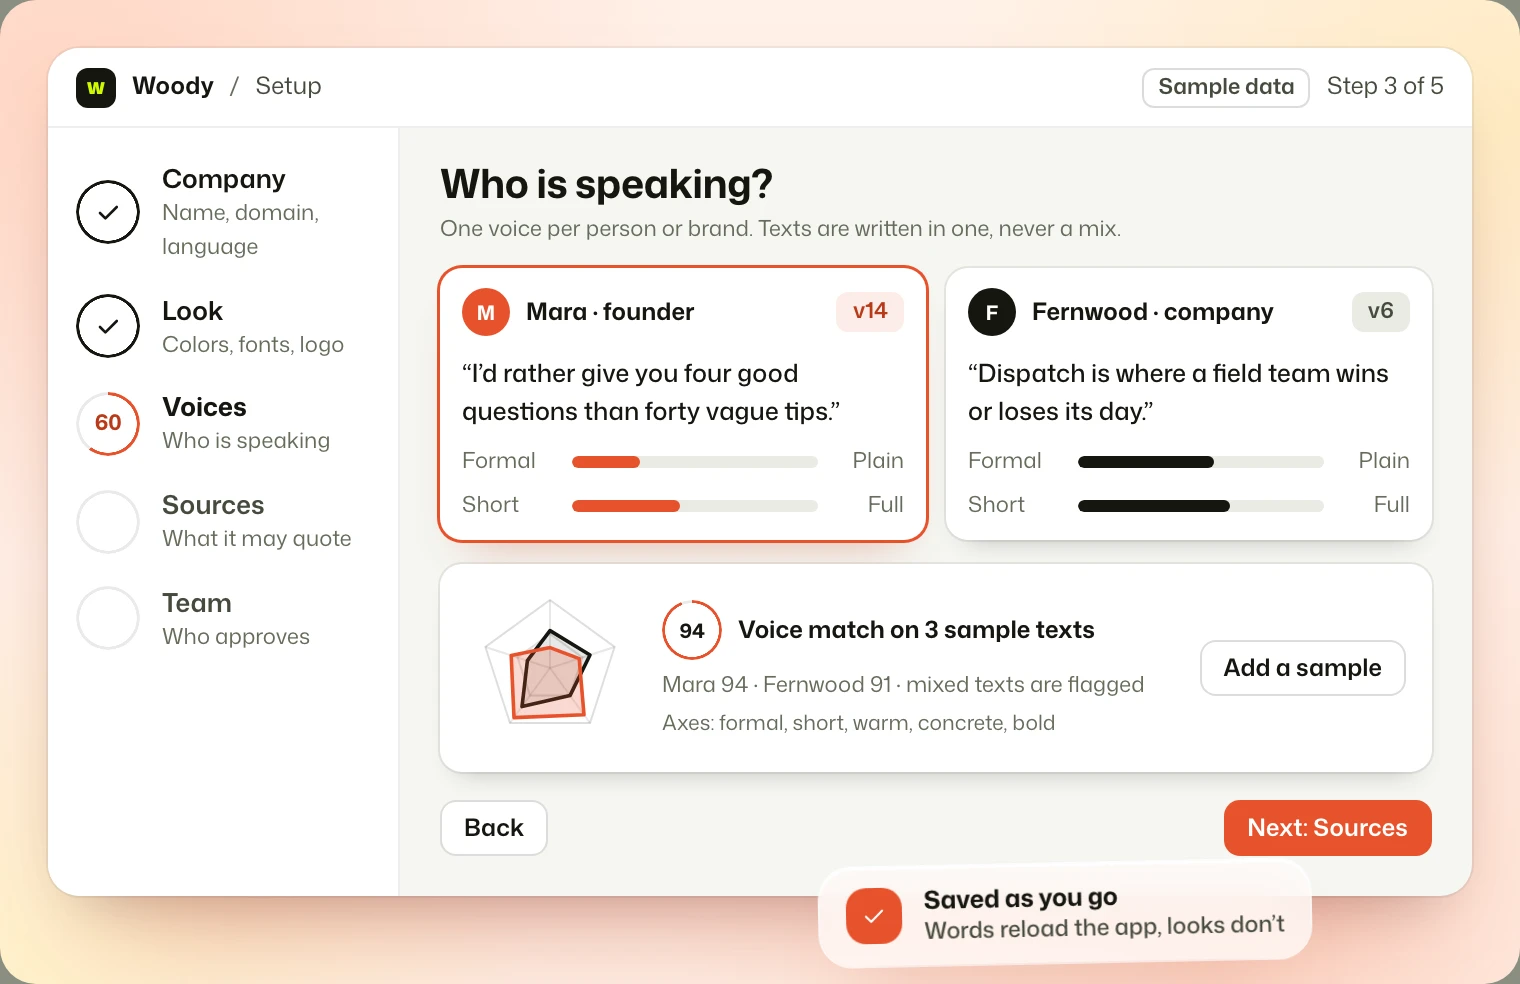
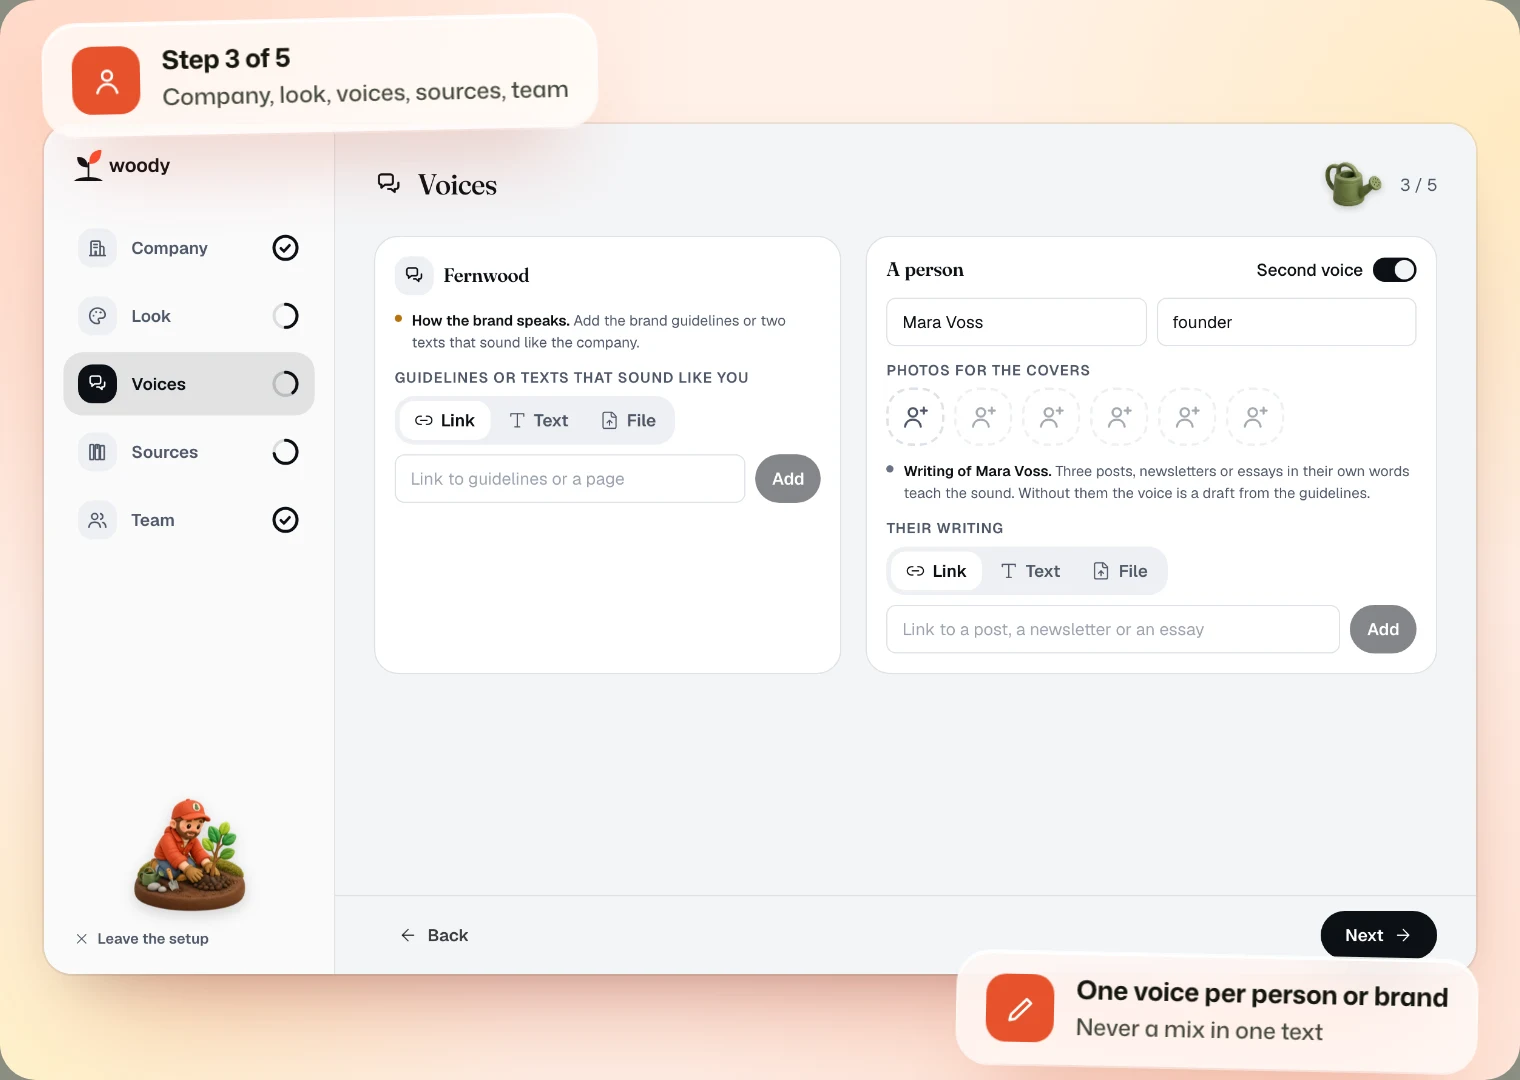
feat(revolution): Woody shown as it runs, nine real screens from the demo company
The Woody screens are now captures of the running app with its sample company
(Fernwood, made up), framed as before: Studio, Review, Texts, one text, Strategy,
Sources, Settings, Setup voices, Setup look, each with a phone crop from the real
responsive layout. The redrawn calendar and licence mockups are removed.

diff --git a/public/revolution/work.html b/public/revolution/work.html
@@ -2877,8 +2877,8 @@ html[data-mode="dark"] .pl3 img.pl3__tm[alt="Apollo"]{filter:invert(1)}
 <div class="v4s__g v4s__g--cases"><article class="v4s__c"><a class="v4s__im" href="work/multichannel-data-engine.html" tabindex="-1" aria-hidden="true"><img src="assets/real/v4-case-multichannel-data-engine.webp" alt="" width="900" height="675" loading="lazy" decoding="async"></a><div class="v4s__tx"><h3><a href="work/multichannel-data-engine.html">Multichannel data engine</a></h3><span class="v4s__st">In use</span><p>One reporting model on top of independent feeds, with dated snapshots and a run state per source.</p><div class="v4s__go"><a class="btn" href="work/multichannel-data-engine.html">Read the case <i>→</i></a></div></div></article><article class="v4s__c"><a class="v4s__im" href="work/form-to-crm-handoff.html" tabindex="-1" aria-hidden="true"><img src="assets/real/v4-case-form-to-crm-handoff.webp" alt="" width="900" height="675" loading="lazy" decoding="async"></a><div class="v4s__tx"><h3><a href="work/form-to-crm-handoff.html">Form-to-CRM handoff</a></h3><span class="v4s__st">In use</span><p>A shared pattern from form field to CRM record, owner and measurement event.</p><div class="v4s__go"><a class="btn" href="work/form-to-crm-handoff.html">Read the case <i>→</i></a></div></div></article><article class="v4s__c"><a class="v4s__im" href="work/website-migration.html" tabindex="-1" aria-hidden="true"><img src="assets/real/v4-case-website-migration.webp" alt="" width="900" height="675" loading="lazy" decoding="async"></a><div class="v4s__tx"><h3><a href="work/website-migration.html">Website migration and redirect QA</a></h3><span class="v4s__st">Documented rollout</span><p>URL inventory, redirect mapping and readiness by page group, released in batches.</p><div class="v4s__go"><a class="btn" href="work/website-migration.html">Read the case <i>→</i></a></div></div></article><article class="v4s__c"><a class="v4s__im" href="work/ecommerce-funnel-diagnosis.html" tabindex="-1" aria-hidden="true"><img src="assets/real/v4-case-ecommerce-funnel-diagnosis.webp" alt="" width="900" height="675" loading="lazy" decoding="async"></a><div class="v4s__tx"><h3><a href="work/ecommerce-funnel-diagnosis.html">Ecommerce funnel diagnosis</a></h3><span class="v4s__st">Delivered</span><p>Where shoppers stop between a product page and an order, and the one step to test first.</p><div class="v4s__go"><a class="btn" href="work/ecommerce-funnel-diagnosis.html">Read the case <i>→</i></a></div></div></article><article class="v4s__c"><a class="v4s__im" href="work/industry-landing-pages.html" tabindex="-1" aria-hidden="true"><img src="assets/real/v4-case-industry-landing-pages.webp" alt="" width="900" height="675" loading="lazy" decoding="async"></a><div class="v4s__tx"><h3><a href="work/industry-landing-pages.html">Industry landing pages and measurement</a></h3><span class="v4s__st">Documented rollout</span><p>Segment landing pages with one structure and one way to measure the next step.</p><div class="v4s__go"><a class="btn" href="work/industry-landing-pages.html">Read the case <i>→</i></a></div></div></article><article class="v4s__c"><a class="v4s__im" href="work/lifecycle-intervention-design.html" tabindex="-1" aria-hidden="true"><img src="assets/real/v4-case-lifecycle-intervention-design.webp" alt="" width="900" height="675" loading="lazy" decoding="async"></a><div class="v4s__tx"><h3><a href="work/lifecycle-intervention-design.html">Lifecycle interventions from customer signals</a></h3><span class="v4s__st">Design proposal</span><p>A design for turning customer signals into reviewed, measurable lifecycle actions.</p><div class="v4s__go"><a class="btn" href="work/lifecycle-intervention-design.html">Read the case <i>→</i></a></div></div></article></div></div></section>
 <!-- /v4-cases -->
 <!-- real-screens -->
-<section class="s hm v4s rs" id="screens" data-theme="dark"><div class="c2"><div class="tl"><div class="hd"><span class="eyebrow chp">Screens</span><h2 data-split="lime">Tools<span>in use</span></h2></div><p class="pp">Sixteen screens from tools I use and build. Every number and name is sample data. The layouts, states and labels are the real ones.</p></div>
-<div class="rs__g"><div class="rs__hd"><h3>Woody</h3><p>Content Studio. Texts in a person's own voice, every claim tied to a source, a named person approving each version.</p></div><ul class="rs__rail" role="region" aria-label="Woody screens" tabindex="0"><li><figure><picture><source media="(max-width:640px)" srcset="assets/real/ui-woody-studio-m.webp" width="716" height="1112"><img src="assets/real/ui-woody-studio.webp" alt="Woody studio: a prompt, voice and channel options, and four texts waiting for review" width="1520" height="1000" loading="lazy" decoding="async"></picture><figcaption><b>Studio</b><span>One prompt, a voice and a channel. Four texts wait for a decision.</span></figcaption></figure></li><li><figure><picture><source media="(max-width:640px)" srcset="assets/real/ui-woody-review-m.webp" width="716" height="1188"><img src="assets/real/ui-woody-review.webp" alt="Woody review: a draft with struck-out phrases, a checklist and an approve button" width="1520" height="1120" loading="lazy" decoding="async"></picture><figcaption><b>Review</b><span>A draft with the edits shown. The reviewer checks voice, sources and client names, then approves.</span></figcaption></figure></li><li><figure><picture><source media="(max-width:640px)" srcset="assets/real/ui-woody-strategy-m.webp" width="716" height="1212"><img src="assets/real/ui-woody-strategy.webp" alt="Woody strategy: a grid of 42 book pages by status and a list of chapters with progress" width="1520" height="1000" loading="lazy" decoding="async"></picture><figcaption><b>Strategy</b><span>A 42-page content book, 18 pages ready. Next up is Benchmarks, page 5.</span></figcaption></figure></li><li><figure><picture><source media="(max-width:640px)" srcset="assets/real/ui-woody-texts-m.webp" width="716" height="1220"><img src="assets/real/ui-woody-texts.webp" alt="Woody texts: a table of 38 texts with channel, voice, status and checks" width="1520" height="1120" loading="lazy" decoding="async"></picture><figcaption><b>Texts</b><span>38 texts with channel, voice, status and checks. One claim without a source is held back.</span></figcaption></figure></li><li><figure><picture><source media="(max-width:640px)" srcset="assets/real/ui-woody-calendar-m.webp" width="716" height="984"><img src="assets/real/ui-woody-calendar.webp" alt="Woody calendar: a month view with scheduled texts and a list of unscheduled ones" width="1520" height="1000" loading="lazy" decoding="async"></picture><figcaption><b>Calendar</b><span>Seven texts scheduled this month, three still unscheduled. Drag a text onto a day.</span></figcaption></figure></li><li><figure><picture><source media="(max-width:640px)" srcset="assets/real/ui-woody-sources-m.webp" width="716" height="1224"><img src="assets/real/ui-woody-sources.webp" alt="Woody sources: documents, notes and links with state, and claims taken from one source" width="1520" height="1208" loading="lazy" decoding="async"></picture><figcaption><b>Sources</b><span>96% of claims trace to a source. One source cannot be opened and holds its text back.</span></figcaption></figure></li><li><figure><picture><source media="(max-width:640px)" srcset="assets/real/ui-woody-setup-m.webp" width="716" height="1128"><img src="assets/real/ui-woody-setup.webp" alt="Woody setup: a voice with formal and short sliders and a voice match score" width="1520" height="984" loading="lazy" decoding="async"></picture><figcaption><b>Setup</b><span>One voice per person or brand, scored by how well it matches three sample texts.</span></figcaption></figure></li><li><figure><picture><source media="(max-width:640px)" srcset="assets/real/ui-woody-licenses-m.webp" width="716" height="1220"><img src="assets/real/ui-woody-licenses.webp" alt="Woody control: a list of licenses with seats, state and last heartbeat" width="1520" height="1120" loading="lazy" decoding="async"></picture><figcaption><b>Licenses</b><span>The control app: seats, state and last heartbeat per customer. One license ends in nine days.</span></figcaption></figure></li><li><figure><picture><source media="(max-width:640px)" srcset="assets/real/ui-woody-license-m.webp" width="716" height="1156"><img src="assets/real/ui-woody-license.webp" alt="Woody control: one ended license with seats, key, last heartbeat and a read-only notice" width="1520" height="1128" loading="lazy" decoding="async"></picture><figcaption><b>One license</b><span>An ended license keeps texts readable and pauses saving. Nothing is deleted.</span></figcaption></figure></li></ul></div>
+<section class="s hm v4s rs" id="screens" data-theme="dark"><div class="c2"><div class="tl"><div class="hd"><span class="eyebrow chp">Screens</span><h2 data-split="lime">Tools<span>in use</span></h2></div><p class="pp">Screens from tools I build. Woody is shown as it runs, with its sample company. The other screens are redrawn with sample data.</p></div>
+<div class="rs__g"><div class="rs__hd"><h3>Woody</h3><p>Content Studio. Texts in a person's own voice, every claim tied to a source, a named person approving each version.</p></div><ul class="rs__rail" role="region" aria-label="Woody screens" tabindex="0"><li><figure><picture><source media="(max-width:640px)" srcset="assets/real/ui-woody-studio-m.webp" width="716" height="1284"><img src="assets/real/ui-woody-studio.webp" alt="Woody studio: a request typed in, the voice and format chosen, and the texts waiting for a decision" width="1520" height="1080" loading="lazy" decoding="async"></picture><figcaption><b>Studio</b><span>Type a request, pick the voice and the format. The app detects the channel and the setup.</span></figcaption></figure></li><li><figure><picture><source media="(max-width:640px)" srcset="assets/real/ui-woody-review-m.webp" width="716" height="1284"><img src="assets/real/ui-woody-review.webp" alt="Woody review: five texts waiting, with their covers and the person who decides" width="1520" height="1080" loading="lazy" decoding="async"></picture><figcaption><b>Review</b><span>Texts waiting for a decision, grouped by who decides.</span></figcaption></figure></li><li><figure><picture><source media="(max-width:640px)" srcset="assets/real/ui-woody-texts-m.webp" width="716" height="1284"><img src="assets/real/ui-woody-texts.webp" alt="Woody texts: a timeline of texts with covers, status and SEO and GEO scores" width="1520" height="1080" loading="lazy" decoding="async"></picture><figcaption><b>Texts</b><span>Every text with its cover, channel, status and SEO and GEO scores.</span></figcaption></figure></li><li><figure><picture><source media="(max-width:640px)" srcset="assets/real/ui-woody-text-m.webp" width="716" height="1284"><img src="assets/real/ui-woody-text.webp" alt="Woody text page: the stages from written to published, the reviewer and the preview" width="1520" height="1080" loading="lazy" decoding="async"></picture><figcaption><b>One text</b><span>The page of a text: the stage of the review, a named reviewer, edit and preview.</span></figcaption></figure></li><li><figure><picture><source media="(max-width:640px)" srcset="assets/real/ui-woody-strategy-m.webp" width="716" height="1284"><img src="assets/real/ui-woody-strategy.webp" alt="Woody strategy: a content book of 48 pages with counts by stage and the chapters" width="1520" height="1080" loading="lazy" decoding="async"></picture><figcaption><b>Strategy</b><span>A content book of 48 pages, split between two voices, from plan to published.</span></figcaption></figure></li><li><figure><picture><source media="(max-width:640px)" srcset="assets/real/ui-woody-sources-m.webp" width="716" height="1284"><img src="assets/real/ui-woody-sources.webp" alt="Woody sources: the sources of two voices, the samples and what is missing" width="1520" height="1080" loading="lazy" decoding="async"></picture><figcaption><b>Sources</b><span>What each voice may use, and what is still missing before it writes.</span></figcaption></figure></li><li><figure><picture><source media="(max-width:640px)" srcset="assets/real/ui-woody-settings-m.webp" width="716" height="1284"><img src="assets/real/ui-woody-settings.webp" alt="Woody settings: the team and their access, who approves which voice, and the covers" width="1520" height="1080" loading="lazy" decoding="async"></picture><figcaption><b>Settings</b><span>The team, who approves which voice, and the tone and covers of the company.</span></figcaption></figure></li><li><figure><picture><source media="(max-width:640px)" srcset="assets/real/ui-woody-setup-m.webp" width="716" height="1284"><img src="assets/real/ui-woody-setup.webp" alt="Woody setup: the voices step, one for the company and one for a person" width="1520" height="1080" loading="lazy" decoding="async"></picture><figcaption><b>Setup, voices</b><span>One voice per person or brand. Step three of five.</span></figcaption></figure></li><li><figure><picture><source media="(max-width:640px)" srcset="assets/real/ui-woody-look-m.webp" width="716" height="1284"><img src="assets/real/ui-woody-look.webp" alt="Woody setup: the look step with colours, fonts, the logo and the people on the covers" width="1520" height="1080" loading="lazy" decoding="async"></picture><figcaption><b>Setup, look</b><span>Colours, fonts and logo read from the website, and the people on the covers.</span></figcaption></figure></li></ul></div>
 <div class="rs__g"><div class="rs__hd"><h3>Growth analytics</h3><p>Cohorts, funnels and an action plan on mature data. Cohorts that are still open stay grey.</p></div><ul class="rs__rail" role="region" aria-label="Growth analytics screens" tabindex="0"><li><figure><picture><source media="(max-width:640px)" srcset="assets/real/ui-b2c-summary-m.webp" width="716" height="1132"><img src="assets/real/ui-b2c-summary.webp" alt="Growth analytics summary: new patients, 90-day return, per-patient revenue and a cohort line chart" width="1520" height="1000" loading="lazy" decoding="async"></picture><figcaption><b>Summary</b><span>Volume up 43%, 90-day return down 6.6 points. Only cohorts old enough to count are counted.</span></figcaption></figure></li><li><figure><picture><source media="(max-width:640px)" srcset="assets/real/ui-b2c-cohorts-m.webp" width="716" height="1080"><img src="assets/real/ui-b2c-cohorts.webp" alt="Growth analytics cohorts: a heat table of return by monthly cohort" width="1520" height="1000" loading="lazy" decoding="async"></picture><figcaption><b>Cohorts</b><span>Safari on mobile fell to 12% at day 90, 11 points under the others, from the March cohort.</span></figcaption></figure></li><li><figure><picture><source media="(max-width:640px)" srcset="assets/real/ui-b2c-funnel-m.webp" width="716" height="988"><img src="assets/real/ui-b2c-funnel.webp" alt="Growth analytics funnel: bars from product to paid and a phone showing a dead pay button" width="1520" height="1000" loading="lazy" decoding="async"></picture><figcaption><b>Funnel</b><span>36% reach payment, 14% pay on Safari mobile. The pay button does nothing and shows no error.</span></figcaption></figure></li><li><figure><picture><source media="(max-width:640px)" srcset="assets/real/ui-b2c-action-plan-m.webp" width="716" height="1096"><img src="assets/real/ui-b2c-action-plan.webp" alt="Growth analytics action plan: a table of actions with owner, effort, impact and status" width="1520" height="1000" loading="lazy" decoding="async"></picture><figcaption><b>Action plan</b><span>Fix the Safari payment step first: about 1,670 bookings a month. Every action has an owner and an effort.</span></figcaption></figure></li></ul></div>
 <div class="rs__g"><div class="rs__hd"><h3>Relora</h3><p>A relationship tool: who knows whom, and outreach drafts that wait for approval.</p></div><ul class="rs__rail" role="region" aria-label="Relora screens" tabindex="0"><li><figure><picture><source media="(max-width:640px)" srcset="assets/real/ui-relora-graph-m.webp" width="716" height="1040"><img src="assets/real/ui-relora-graph.webp" alt="Relora relationship graph with the shortest path to one contact" width="1520" height="1000" loading="lazy" decoding="async"></picture><figcaption><b>Relationships</b><span>The shortest path to a contact in two steps, through someone who knows them. Nothing is sent without you.</span></figcaption></figure></li><li><figure><picture><source media="(max-width:640px)" srcset="assets/real/ui-relora-brief-m.webp" width="716" height="1120"><img src="assets/real/ui-relora-brief.webp" alt="Relora contact brief: facts, notes, an email draft awaiting approval and a timeline" width="1520" height="1112" loading="lazy" decoding="async"></picture><figcaption><b>Contact brief</b><span>Public facts, private context and an email draft waiting for approval. Private notes stay private.</span></figcaption></figure></li></ul></div>
 <div class="rs__g"><div class="rs__hd"><h3>Recruitify</h3><p>A private build: a job search board with a fit score on every role.</p></div><ul class="rs__rail" role="region" aria-label="Recruitify screens" tabindex="0"><li><figure><picture><source media="(max-width:640px)" srcset="assets/real/ui-recruit-board-m.webp" width="716" height="1360"><img src="assets/real/ui-recruit-board.webp" alt="Recruitify board: roles in columns from saved to offer with fit scores" width="1520" height="1224" loading="lazy" decoding="async"></picture><figcaption><b>Board</b><span>Roles by stage, each with a fit score. Two interviews this week.</span></figcaption></figure></li></ul></div>

diff --git a/public/revolution/marketing.html b/public/revolution/marketing.html
@@ -2910,8 +2910,8 @@ html[data-mode="dark"] .pl3 img.pl3__tm[alt="Apollo"]{filter:invert(1)}
 
 <section class="s mk-tools mk-sheet" data-theme="dark"><div class="mk-w"><div class="lh-cv lh-cv--b mk-cv"><i class="lh-cv__plus" aria-hidden="true">+</i><div class="lh-cv__t"><span class="eyebrow">In production</span><h2>Tools I<span>run it with</span></h2></div><div class="lh-cv__art" aria-hidden="true"><img src="assets/real/ui-funnel.webp" alt="" width="640" height="420" loading="lazy" decoding="async"><img src="assets/real/ui-scenarios.webp" alt="" width="640" height="420" loading="lazy" decoding="async"></div></div></div>
   <div class="mk-strip">
-    <a href="work/content-studio.html"><picture><source media="(max-width:640px)" srcset="assets/real/ui-woody-studio-m.webp" width="716" height="1112"><img src="assets/real/ui-woody-studio.webp" alt="Woody Content Studio: a prompt with voice and channel, and four texts waiting for a decision" width="1520" height="1000" loading="lazy" decoding="async"></picture><b>Content Studio</b><span>One sentence in, drafts in two voices out. A named person approves one exact version.</span><em>Internal tool ↗</em></a>
-    <a href="work/content-studio.html"><picture><source media="(max-width:640px)" srcset="assets/real/ui-woody-sources-m.webp" width="716" height="1224"><img src="assets/real/ui-woody-sources.webp" alt="Woody sources: documents, notes and links with their state, and the claims taken from one of them" width="1520" height="1208" loading="lazy" decoding="async"></picture><b>Sources</b><span>Every draft shows which source it came from.</span><em>Internal tool ↗</em></a>
+    <a href="work/content-studio.html"><picture><source media="(max-width:640px)" srcset="assets/real/ui-woody-studio-m.webp" width="716" height="1284"><img src="assets/real/ui-woody-studio.webp" alt="Woody Content Studio: a request typed in, the voice and format chosen, and the texts waiting for a decision" width="1520" height="1080" loading="lazy" decoding="async"></picture><b>Content Studio</b><span>One sentence in, drafts in two voices out. A named person approves one exact version.</span><em>Internal tool ↗</em></a>
+    <a href="work/content-studio.html"><picture><source media="(max-width:640px)" srcset="assets/real/ui-woody-sources-m.webp" width="716" height="1284"><img src="assets/real/ui-woody-sources.webp" alt="Woody sources: the sources of two voices, the samples and what is missing" width="1520" height="1080" loading="lazy" decoding="async"></picture><b>Sources</b><span>Every draft shows which source it came from.</span><em>Internal tool ↗</em></a>
     <a href="apps/adsai.html"><img src="assets/real/ui-ads-dash.webp" alt="AdsAI dashboard: spend, revenue, ROAS and priorities" width="640" height="420" loading="lazy" decoding="async"><b>AdsAI</b><span>The Google Ads interface is built for configuration. This one is built for decisions.</span><em>Live demo ↗</em></a>
   </div>
 </section>
